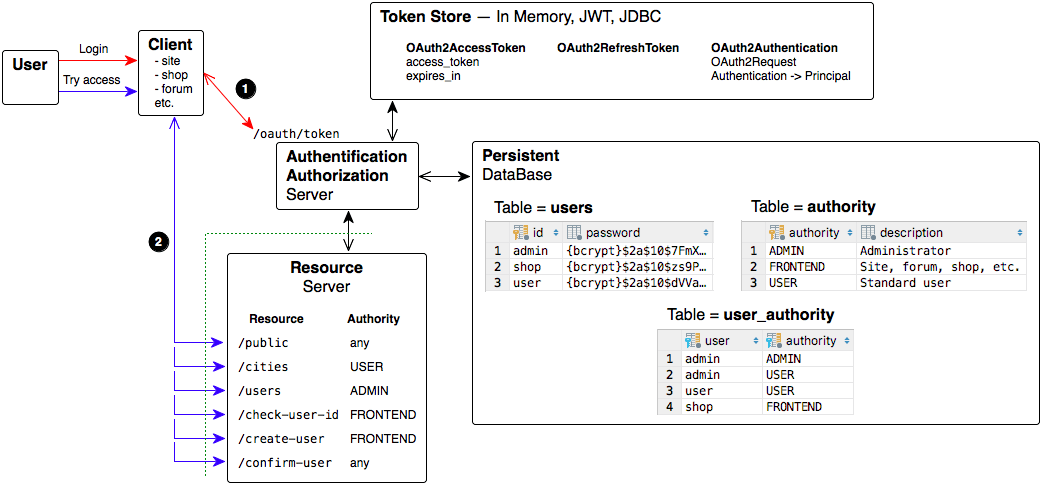
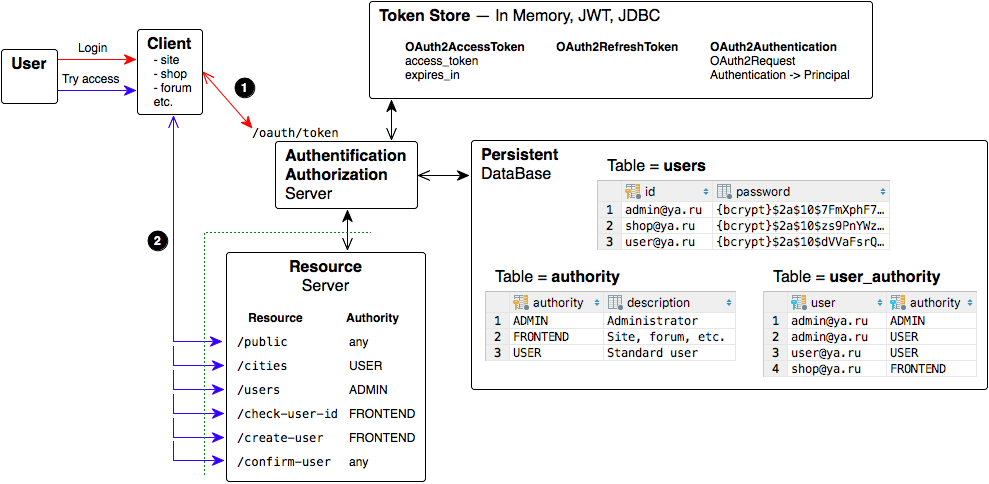
readme

diff --git a/README.md b/README.md
@@ -16,8 +16,8 @@ See `test\java\ru.dwfe.authtion` classes.
 
 ## AuthorityTest
 See screenrecord:
-1. Login as: `user`, `admin`, `shop`
-2. Try to access as `user`, `admin`, `shop`, `not logged user` to resources:
+1. Login as: `user@ya.ru`, `admin@ya.ru`, `shop@ya.ru`
+2. Try to access as `user@ya.ru`, `admin@ya.ru`, `shop@ya.ru`, `not logged user` to resources:
    * `/public`
    * `/cities`
    * `/users`
